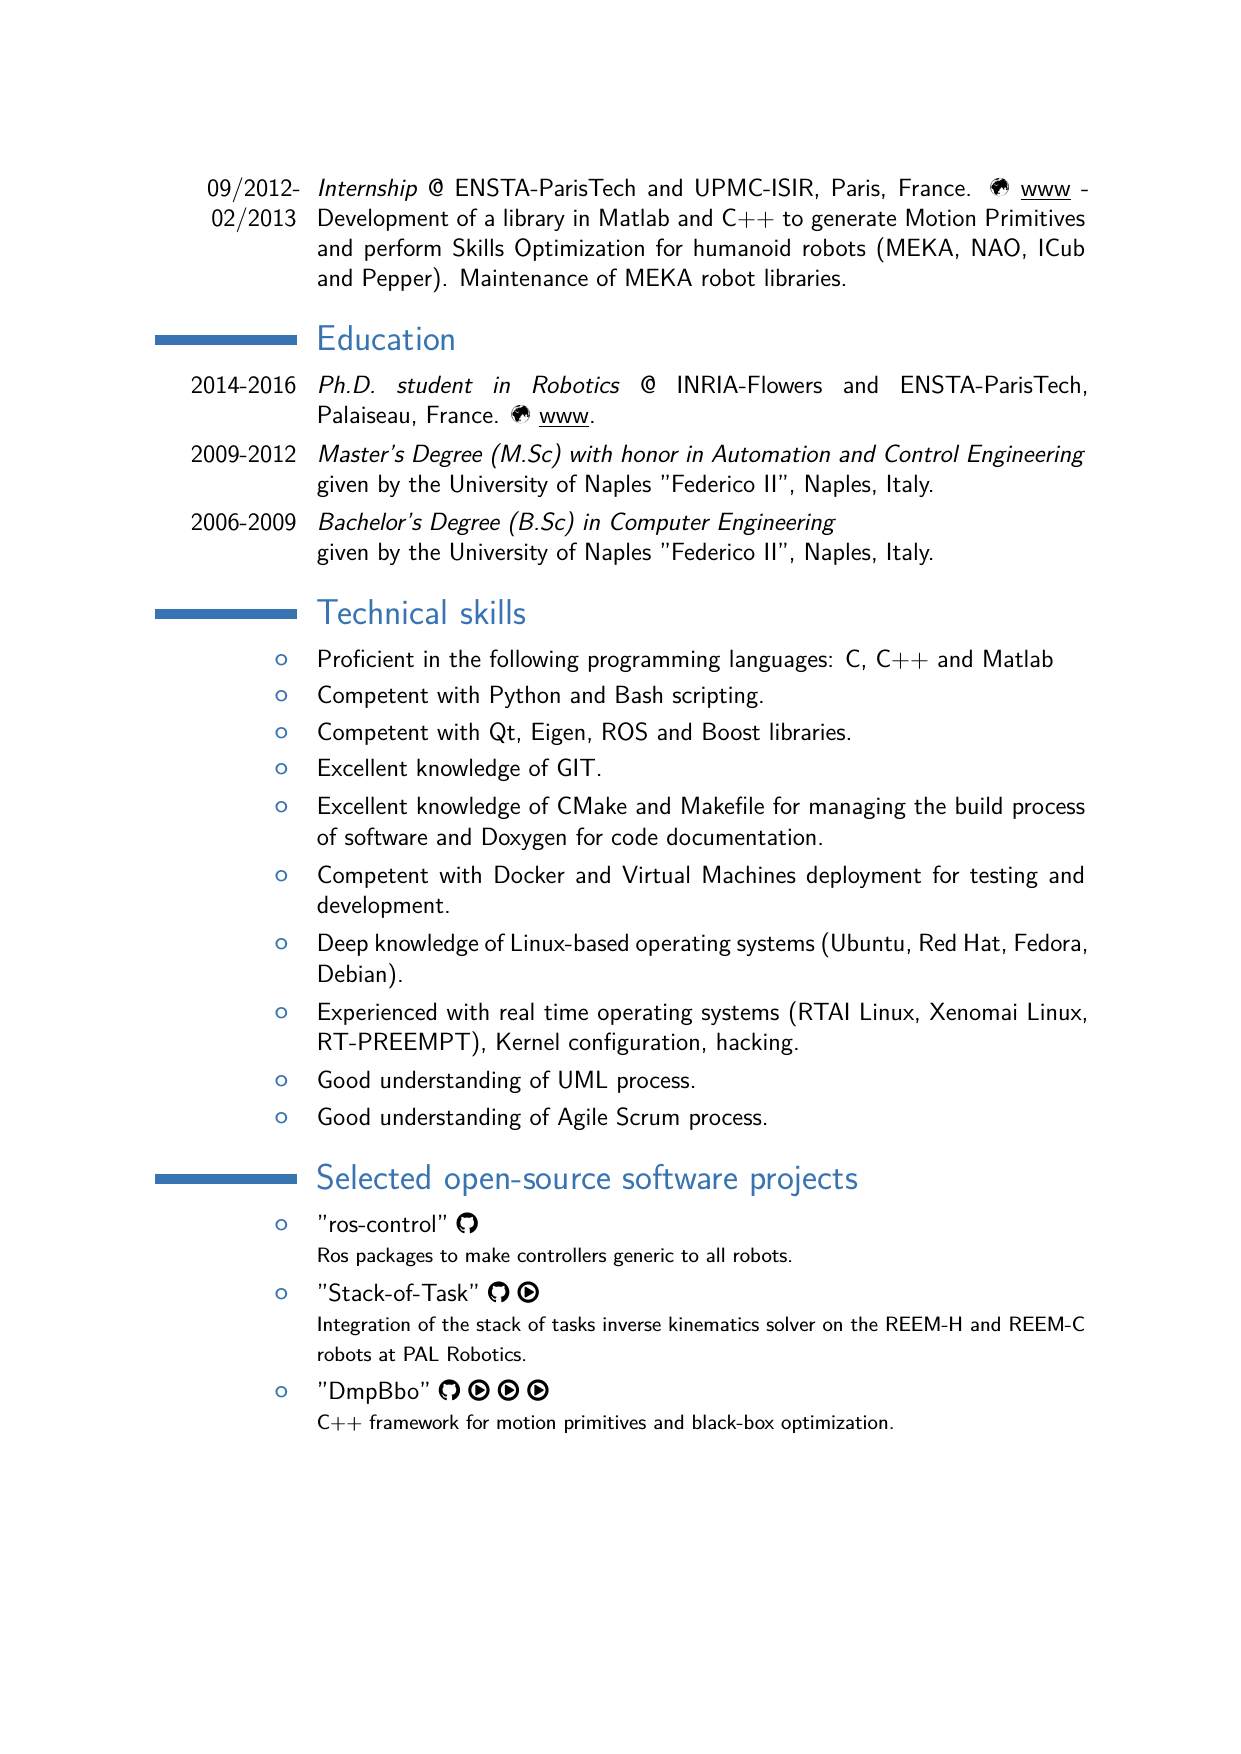
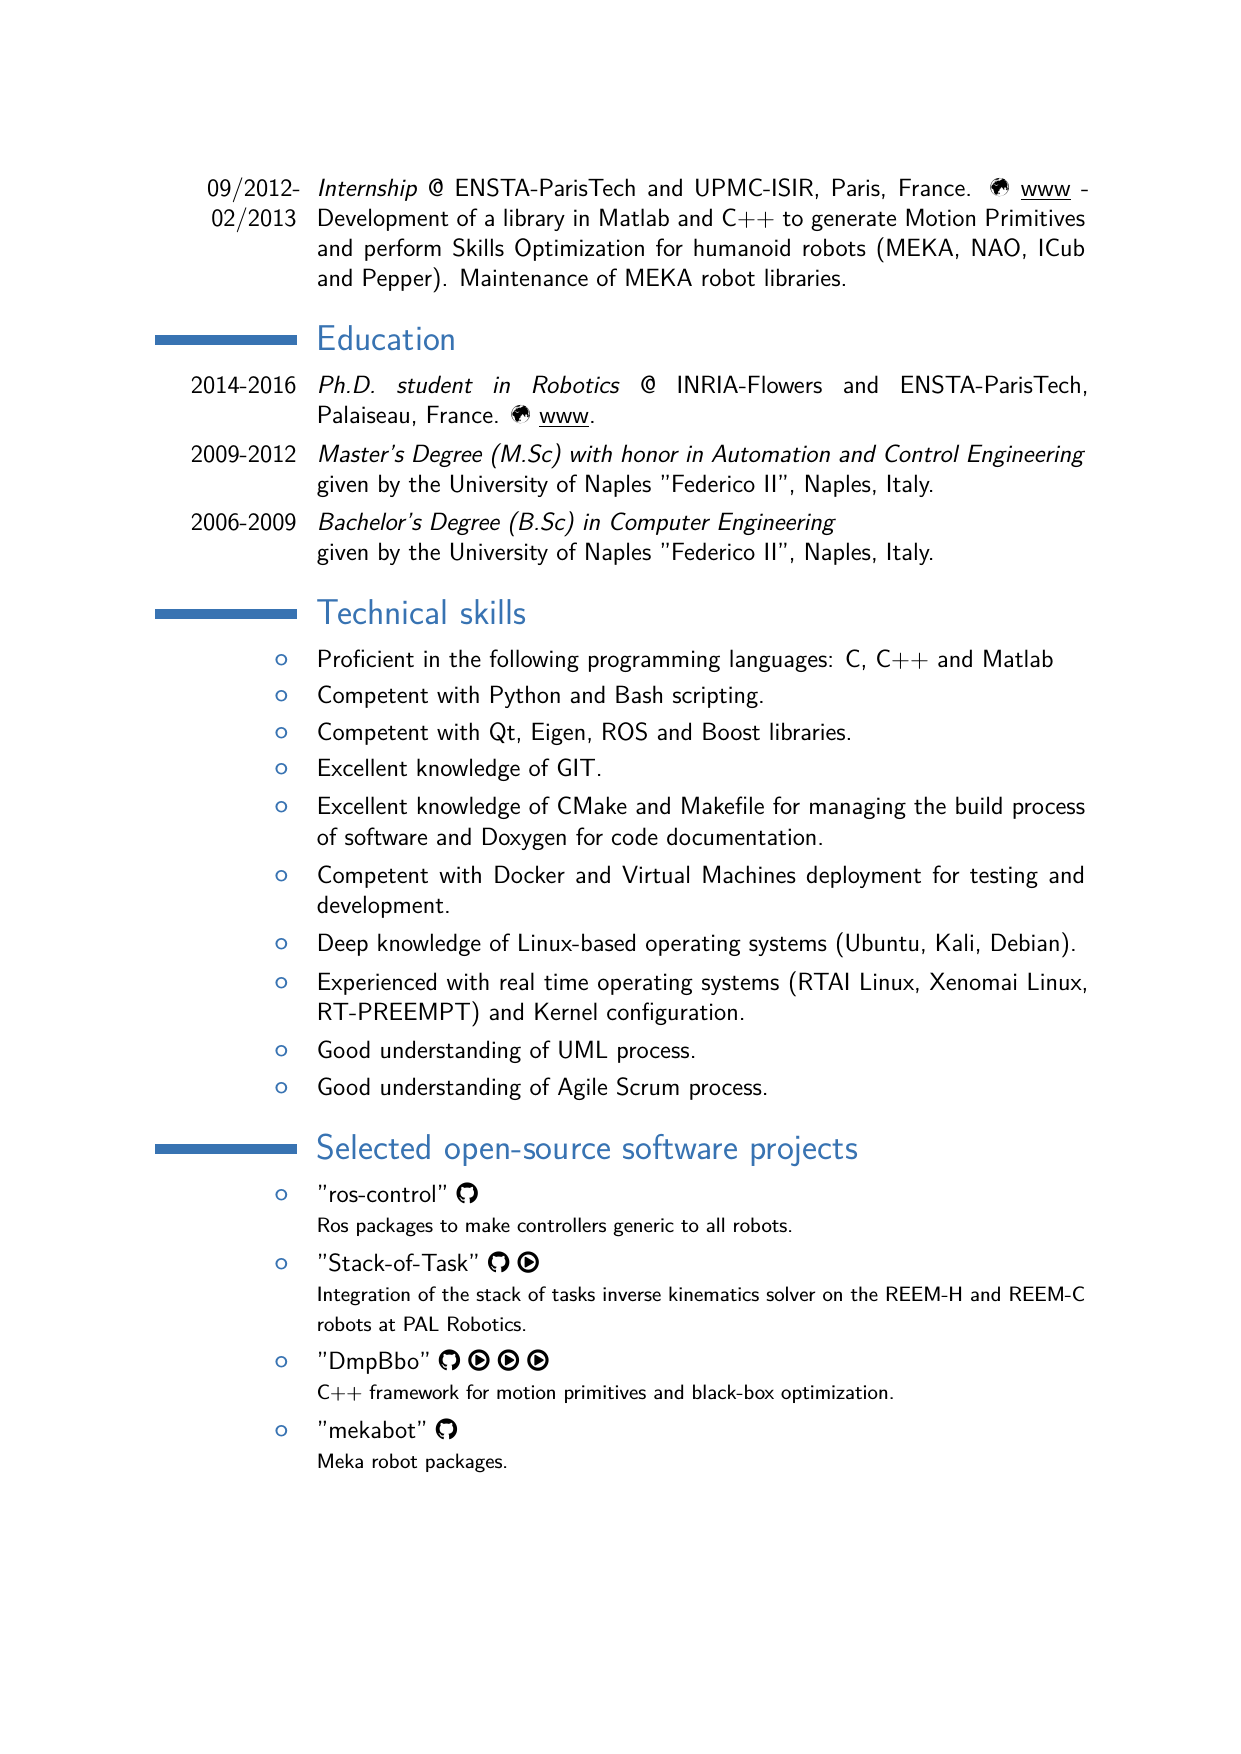
Generated files updated on Wed Dec 12 08:59:38 CET 2018

Changed region(s): [[0.1225, 0.5234, 0.888, 0.862], [0.3674, 0.8312, 0.3981, 0.862]]

diff --git a/CV_Gennaro-Raiola.tex b/CV_Gennaro-Raiola.tex
@@ -142,8 +142,8 @@ Robotics, computer science, motion planning, human-robot interaction, machine le
 \cvitem{\listitemsymbol}{Excellent knowledge of GIT.}
 \cvitem{\listitemsymbol}{Excellent knowledge of CMake and Makefile for managing the build process of software and Doxygen for code documentation.}
 \cvitem{\listitemsymbol}{Competent with Docker and Virtual Machines deployment for testing and development.}
-\cvitem{\listitemsymbol}{Deep knowledge of Linux-based operating systems (Ubuntu, Red Hat, Fedora, Debian).}
-\cvitem{\listitemsymbol}{Experienced with real time operating systems (RTAI Linux, Xenomai Linux, RT-PREEMPT), Kernel configuration, hacking.}
+\cvitem{\listitemsymbol}{Deep knowledge of Linux-based operating systems (Ubuntu, Kali, Debian).}
+\cvitem{\listitemsymbol}{Experienced with real time operating systems (RTAI Linux, Xenomai Linux, RT-PREEMPT) and Kernel configuration.}
 \cvitem{\listitemsymbol}{Good understanding of UML process.}
 \cvitem{\listitemsymbol}{Good understanding of Agile Scrum process.}
 
